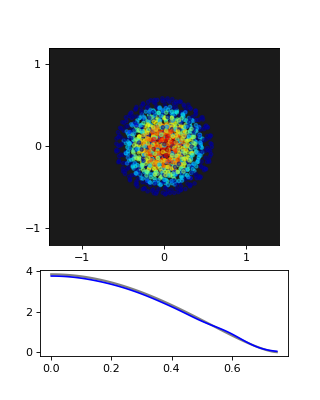
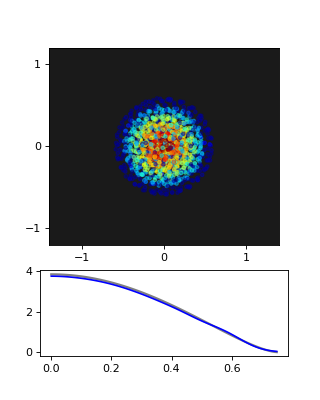
added gif plotting

diff --git a/01_toystar.py b/01_toystar.py
@@ -4,9 +4,12 @@ import os
 import matplotlib.pyplot as plt
 from numba import cuda
 from scipy.special import gamma
-from gpu_core import calc_dv_toystar, calc_density, update_pos_vel_halfstep
+from PIL import Image
+
+from astro_core import calc_dv_toystar, calc_density, update_pos_vel_halfstep
 from smoothing_length import calc_h_guesses, calc_midpoint, calc_zeta, bisect_update, get_new_smoothing_lengths
-from pmocz_functions import plot_frame
+from pmocz_functions import plot_frame, get_img
+
 
 # demonstrates formation of a toy star integrated using a quintic spline kernel and adaptive smoothing length in 2D and 3D
 
@@ -15,17 +18,18 @@ M = 2 # star mass
 polytropic_idx = 3/2
 
 
-h_init = 0.1 * (R * 4/3) #0.1 * (R * 4/3)    # smoothing length
-eq_state_const = 0.1 * (R * 4/3)   # equation of state constant
-viscosity = 1      # damping
+h_init = 0.1 * (R * 4/3)    # smoothing length
+eq_state_const = 0.1 * (R * 4/3) # equation of state constant
+viscosity = 1 # damping
 
 lmbda_2d = 2*eq_state_const*np.pi**(-1/polytropic_idx) * ( ( (M*(1+polytropic_idx)) / (R**2) )**(1 + 1/polytropic_idx) ) / M
 lmbda_3d = 2*eq_state_const*(1+polytropic_idx)*np.pi**(-3/(2*polytropic_idx)) * (M*gamma(5/2+polytropic_idx)/R**3/gamma(1+polytropic_idx))**(1/polytropic_idx) / R**2
 
-t         = 0      # current time of the simulation
-tEnd      = 12     # time at which simulation ends
-#dt        = 0.01   # timestep
-dt = 0.005#0.01
+#t = 0      # current time of the simulation
+tEnd = 12
+dt = 0.005
+
+#dt = 0.005#0.01
 
 configs = [
     (2, 16, lmbda_2d),
@@ -34,18 +38,15 @@ configs = [
 
 for spatial_dim, particle_dim, lmbda in configs:
 
-    #particle_dim = 32
     threads = 16
     tpb = (threads, threads)
     bpg = ( int(particle_dim / threads), int(particle_dim / threads) )
 
 
-    N         = particle_dim*particle_dim    # Number of particles
+    N = particle_dim*particle_dim    # Number of particles
 
-    smoothing_length = np.zeros((particle_dim, particle_dim)) + h_init
+    smoothing_length = np.zeros((particle_dim, particle_dim)) #+ h_init
     smoothing_length = cuda.to_device(smoothing_length.astype('f4'))
-
-    #spatial_dim = 3
 
     init_pos = (R * 4/3) * np.random.randn(particle_dim, particle_dim, 2, spatial_dim).astype('f4')
     d_pos = cuda.to_device(init_pos)
@@ -56,21 +57,15 @@ for spatial_dim, particle_dim, lmbda in configs:
 
     particle_mass = M/N
 
-    #lmbda_2d = 2*eq_state_const*np.pi**(-1/polytropic_idx) * ( ( (M*(1+polytropic_idx)) / (R**2) )**(1 + 1/polytropic_idx) ) / M
-    #lmbda_3d = 2*eq_state_const*(1+polytropic_idx)*np.pi**(-3/(2*polytropic_idx)) * (M*gamma(5/2+polytropic_idx)/R**3/gamma(1+polytropic_idx))**(1/polytropic_idx) / R**2
-
-    #lmbda = lmbda_2d if spatial_dim == 2 else lmbda_3d
-
-    #print(lmbda)
-
     steps = int(tEnd/dt)
 
     all_pos = np.zeros((N, spatial_dim, steps), dtype='f4')
-
-    all_pos[:,:, 0] = init_pos[:,:,0,:].reshape((N, spatial_dim))
+    all_rho = np.zeros((N, steps), dtype='f4')
 
     x = cuda.to_device(np.zeros((particle_dim, particle_dim, 3), dtype='f4'))
     y = cuda.to_device(np.zeros((particle_dim, particle_dim, 3), dtype='f4'))
+
+    imgs = []
 
     for i in range(1, steps):
         print(i)
@@ -88,11 +83,16 @@ for spatial_dim, particle_dim, lmbda in configs:
 
         update_pos_vel_halfstep[bpg, tpb](d_pos, d_vel, d_dV, dt)
 
-        all_pos[:,:, i] = (d_pos.copy_to_host()[:,:,0,:]).reshape((N, spatial_dim))
+        all_pos[:,:,i] = (d_pos.copy_to_host()[:,:,0,:]).reshape((N, spatial_dim))
+        all_rho[:,i] = (d_rho.copy_to_host()).reshape((N,))
 
+        '''
+        fig = plot_frame(all_pos[:,:,i], all_rho[:,i], R, polytropic_idx, eq_state_const, h_init, particle_mass, lmbda)
+        fig.canvas.draw()
+        img = Image.frombytes('RGB', fig.canvas.get_width_height(), fig.canvas.tostring_rgb())
+        imgs.append(img)
+        '''
+        imgs.append(get_img(all_pos[:,:,i], all_rho[:,i], R, polytropic_idx, eq_state_const, h_init, particle_mass, lmbda))
 
-    density = d_rho.copy_to_host()
-
-    pos = all_pos[:,:,-1]
-    path = os.path.join(os.path.dirname(__file__), f'figures/01_toystar/toystar_{spatial_dim}d.png')
-    plot_frame(pos, density, R, polytropic_idx, eq_state_const, h_init, particle_mass, lmbda, path)
+    path = os.path.join(os.path.dirname(__file__), f'figures/01_toystar/toystar_{spatial_dim}d.gif')
+    imgs[0].save(path, save_all=True, append_images=imgs[1:], duration=20, loop=0)

diff --git a/pmocz_functions.py b/pmocz_functions.py
@@ -4,9 +4,20 @@
 import math
 import numpy as np
 import matplotlib.pyplot as plt
+from PIL import Image
 from kernels import w_gauss, dwdq_gauss
 
-def plot_frame(pos, dens, R, polytropic_idx, eq_state_const, h, particle_mass, lmbda, fig_name):
+
+def get_img(pos, dens, R, polytropic_idx, eq_state_const, h, particle_mass, lmbda):
+    fig = plot_frame(pos, dens, R, polytropic_idx, eq_state_const, h, particle_mass, lmbda)
+    fig.canvas.draw()
+    img = Image.frombytes('RGB', fig.canvas.get_width_height(), fig.canvas.tostring_rgb())
+    #imgs.append(img)
+    plt.close(fig)
+    return img
+
+
+def plot_frame(pos, dens, R, polytropic_idx, eq_state_const, h, particle_mass, lmbda):#, fig_name):
     rr = np.zeros((100,pos.shape[1]))
     rlin = np.linspace(0,R,100)
     rr[:,0] =rlin
@@ -24,11 +35,12 @@ def plot_frame(pos, dens, R, polytropic_idx, eq_state_const, h, particle_mass, l
     plt.sca(ax1)
     plt.cla()
 
-    #cval = np.minimum((density-3*(R*4/3))/3,1).flatten()
-    cval = dens
+    cval = np.minimum((dens-3*(R*4/3))/3, 3 * R*4/3).flatten()
+    #cval = dens
     #cval = np.minimum((cval-3)/3,1).flatten()
 
-    plt.scatter(pos[:,0],pos[:,1], c=cval, cmap=plt.cm.jet, s=10, alpha=0.5)
+    #plt.scatter(pos[:,0],pos[:,1], c=cval, cmap=plt.cm.jet, s=10, alpha=0.5)
+    plt.scatter(pos[:,0],pos[:,1], c=cval, cmap=plt.cm.autumn, s=10, alpha=0.5)
     ax1.set(xlim=(-1.4 * (R * 4/3), 1.4 * (R * 4/3)), ylim=(-1.2 * (R * 4/3), 1.2 * (R * 4/3)))
     ax1.set_aspect('equal', 'box')
     ax1.set_xticks([-(R * 4/3),0,(R * 4/3)])
@@ -43,8 +55,9 @@ def plot_frame(pos, dens, R, polytropic_idx, eq_state_const, h, particle_mass, l
     plt.plot(rlin, rho_analytic, color='gray', linewidth=2)
     rho_radial = density( pos, h, particle_mass, pos.shape[1], rr=rr )
     plt.plot(rlin, rho_radial, color='blue')
-    plt.savefig(fig_name)
-    plt.show()
+    #plt.savefig(fig_name)
+    #plt.show()
+    return fig
 
 
 def density( pos, h, particle_mass, dim, rr=None ):

diff --git a/tests.py b/tests.py
@@ -4,7 +4,7 @@ import matplotlib.pyplot as plt
 from scipy.special import gamma
 from numba import cuda, float32, int8, from_dtype
 from kernels import w_gauss, dwdq_gauss, w_quintic_gpu, dwdq_quintic_gpu
-from gpu_core import calc_density, calc_dv_toystar
+from astro_core import calc_density, calc_dv_toystar
 from smoothing_length import calc_h_guesses, calc_midpoint, calc_zeta, bisect_update, get_new_smoothing_lengths
 from pmocz_functions import pairwise_separations, density, dv
 import pytest
